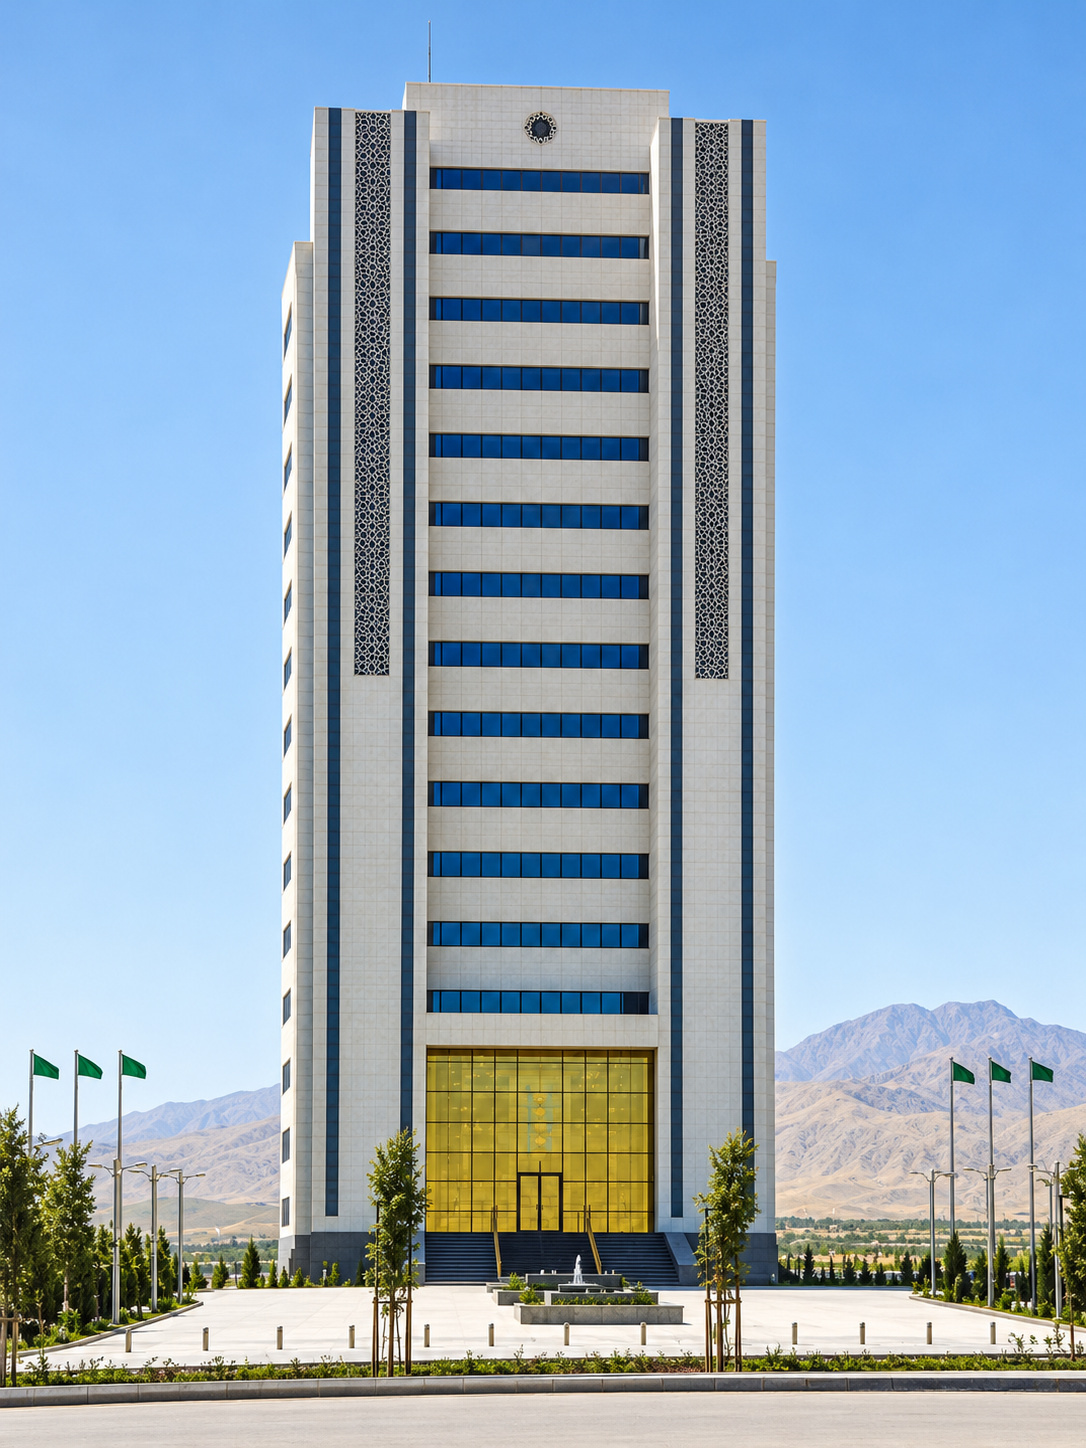
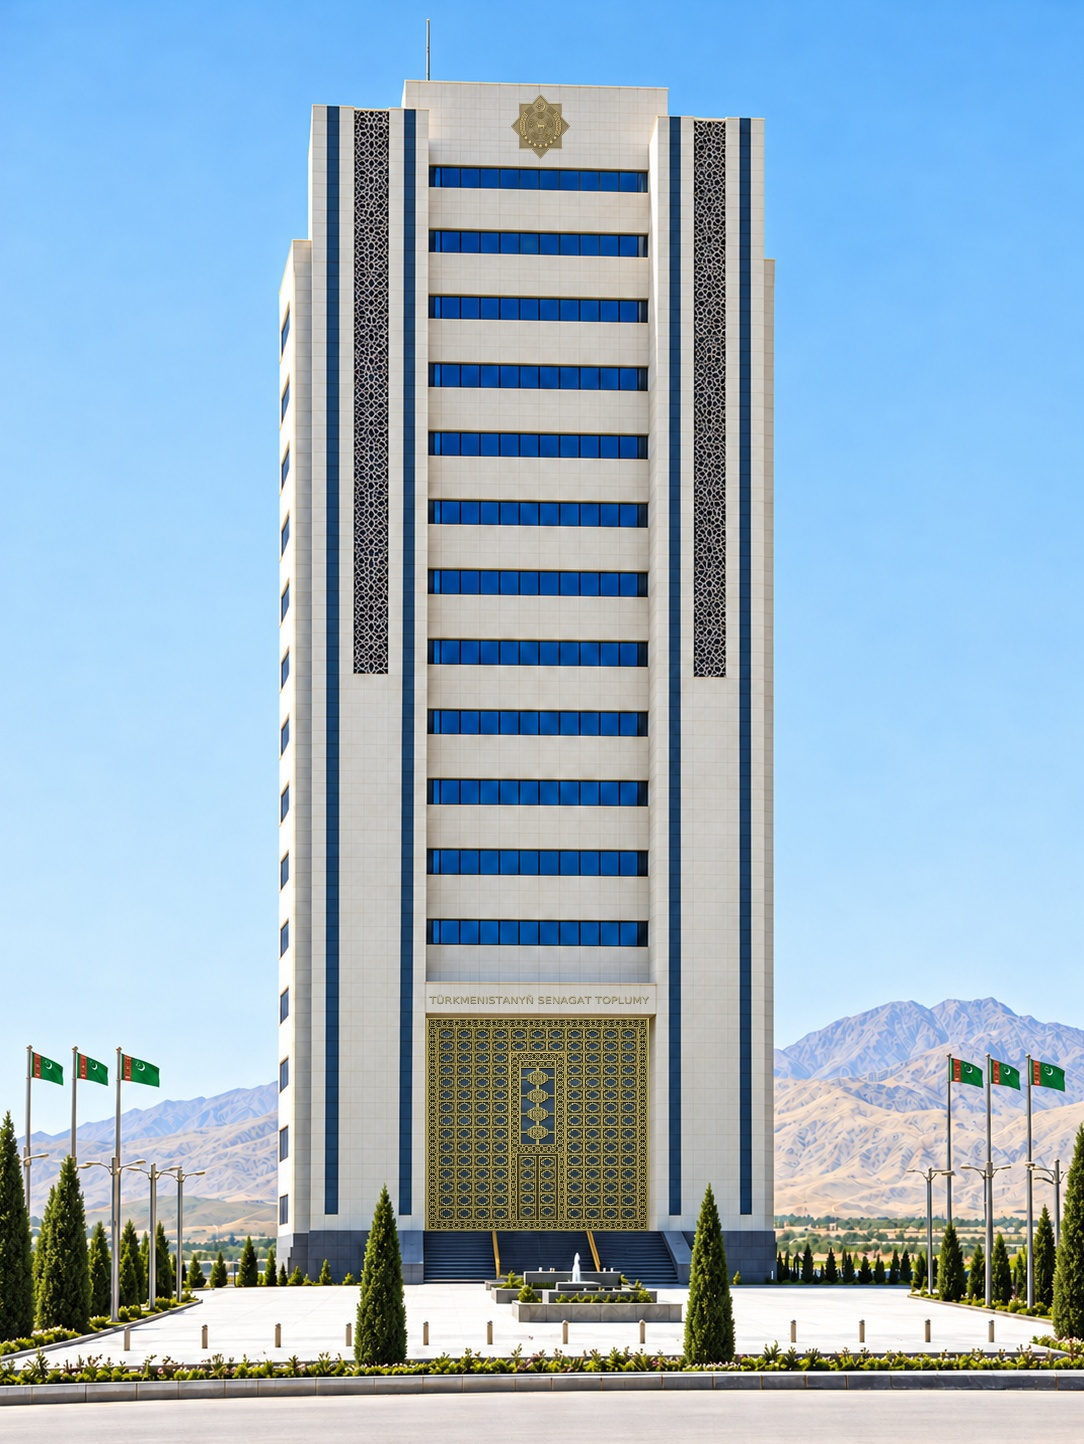
feat(landing): новый телефон и почта, без факса и «3 заказчиков», фото здания с обложки
По просьбе предприятия 31.10.2026:
- Телефон везде +993 12 76-03-69 (шапка, кнопка «позвонить», контакты).
- В контактах почта ceo@ и staff@nebithi.gov.tm — ссылкой на письмо.
- Факс снят: номер больше не их.
- Цифру «3 государственных заказчика» убрали; три оставшиеся — в ряд
  на компьютере, на телефоне две сверху и одна на всю ширину.
- Фото здания — с обложки нового каталога, снято страницей целиком:
  герб, надпись и решётка входа в PDF лежат отдельным слоем поверх
  фото, при выдёргивании одной картинки они теряются.

Changed region(s): [[0.0, 0.0312, 1.0, 0.9972]]

diff --git a/src/components/Landing.tsx b/src/components/Landing.tsx
@@ -1,5 +1,5 @@
 import { HugeiconsIcon } from "@hugeicons/react";
-import { ArrowRight02Icon, Call02Icon, Location01Icon, PrinterIcon } from "@hugeicons/core-free-icons";
+import { ArrowRight02Icon, Call02Icon, Location01Icon, Mail01Icon } from "@hugeicons/core-free-icons";
 import type { ReactNode } from "react";
 import { customerImages, customerKeys, future, groups, products, site } from "@/content/catalog";
 import { dicts } from "@/content";
@@ -79,13 +79,16 @@ function Hero({ d }: { d: Dict }) {
         </div>
       </Container>
       <Container>
-        <dl className="grid grid-cols-2 border-t border-border lg:grid-cols-4">
+        {/* Цифр три (строку «3 государственных заказчика» сняли по просьбе
+            предприятия 31.10.2026). На телефоне три колонки не влезают —
+            «35–220 kV» рвётся, поэтому две в ряд, третья на всю ширину. */}
+        <dl className="grid grid-cols-2 border-t border-border sm:grid-cols-3">
           {d.stats.map((s, i) => (
             <div
               key={s.label}
-              className={`py-6 ${i % 2 === 1 ? "border-l border-border pl-4 sm:pl-6" : "pr-4"} ${
-                i >= 2 ? "border-t border-border lg:border-t-0" : ""
-              } ${i === 2 ? "lg:border-l lg:pl-6" : ""} ${i > 0 ? "lg:pl-6" : ""}`}
+              className={`py-6 ${i === 0 ? "pr-4" : ""} ${i === 1 ? "border-l border-border pl-4 sm:pl-6" : ""} ${
+                i === 2 ? "col-span-2 border-t border-border sm:col-span-1 sm:border-l sm:border-t-0 sm:pl-6" : ""
+              }`}
             >
               <dt className="sr-only">{s.label}</dt>
               <dd className="text-3xl font-bold tabular-nums text-ink">{s.value}</dd>
@@ -316,8 +319,12 @@ function Contacts({ d }: { d: Dict }) {
               {site.phone.display}
             </a>
           </ContactRow>
-          <ContactRow icon={PrinterIcon} label={d.contacts.faxLabel}>
-            <span className="text-xl font-semibold tabular-nums text-text">{site.fax}</span>
+          <ContactRow icon={Mail01Icon} label={d.contacts.emailLabel}>
+            {site.emails.map((email) => (
+              <a key={email} href={`mailto:${email}`} className="block break-all text-lg font-semibold text-ink hover:underline">
+                {email}
+              </a>
+            ))}
           </ContactRow>
           <ContactRow icon={Location01Icon} label={d.contacts.addressLabel}>
             <address className="text-base not-italic leading-relaxed text-text">
@@ -348,7 +355,7 @@ function ContactRow({
       <span className="mt-0.5 flex h-10 w-10 shrink-0 items-center justify-center rounded-full bg-tint text-ink">
         <HugeiconsIcon icon={icon} size={20} />
       </span>
-      <div>
+      <div className="min-w-0">
         <p className="text-xs font-semibold text-faint">{label}</p>
         <div className="mt-1">{children}</div>
       </div>

diff --git a/src/content/ru.ts b/src/content/ru.ts
@@ -37,7 +37,6 @@ export const ru: Dict = {
     { value: "1960", label: "год начала производства" },
     { value: "5", label: "направлений продукции" },
     { value: "35–220 кВ", label: "классы опор ЛЭП" },
-    { value: "3", label: "государственных заказчика" },
   ],
   products: {
     eyebrow: "Продукция",
@@ -251,7 +250,7 @@ export const ru: Dict = {
     addressLabel: "Адрес",
     address: ["ул. 2008 (Н. Помма), 6", "Ашхабад 744000", "Туркменистан"],
     phoneLabel: "Телефон",
-    faxLabel: "Факс",
+    emailLabel: "Электронная почта",
   },
   footer: {
     illustrations: "Изображения продукции — иллюстрации на основе предоставленных материалов, а не рабочие чертежи. Точная конструкция определяется утверждённой документацией.",

diff --git a/src/content/catalog.ts b/src/content/catalog.ts
@@ -4,8 +4,9 @@ import type { FutureId, GroupId, Lang, ProductId } from "./types";
 // текстов, чтобы смена фото не требовала правки трёх языковых файлов.
 
 export const site = {
-  phone: { display: "+993 12 37-95-07", tel: "+99312379507" },
-  fax: "+993 12 37-95-15",
+  phone: { display: "+993 12 76-03-69", tel: "+99312760369" },
+  // Почта предприятия — с их бланка (31.10.2026); на всех языках одна.
+  emails: ["ceo@nebithi.gov.tm", "staff@nebithi.gov.tm"],
   // Портрет президента — как в печатном каталоге; на сайтах .gov.tm он
   // принят. Решение за предприятием: выключается здесь, без правки вёрстки.
   showPresident: true,

diff --git a/src/content/tk.ts b/src/content/tk.ts
@@ -37,7 +37,6 @@ export const tk: Dict = {
     { value: "1960", label: "ýyldan bäri önümçilik" },
     { value: "5", label: "önüm ugry" },
     { value: "35–220 kV", label: "elektrik liniýa diregleriniň synplary" },
-    { value: "3", label: "döwlet sargytçysy" },
   ],
   products: {
     eyebrow: "Önüm toplumy",
@@ -251,7 +250,7 @@ export const tk: Dict = {
     addressLabel: "Salgy",
     address: ["2008-nji (N. Pomma) köçesi, 6", "Aşgabat 744000", "Türkmenistan"],
     phoneLabel: "Telefon",
-    faxLabel: "Faks",
+    emailLabel: "Elektron poçta",
   },
   footer: {
     illustrations: "Önümleriň şekilleri berlen materiallar esasynda taýýarlanan görkezme suratlardyr, önümçilik çyzgylary däldir. Takyk gurluş tassyklanan resminamalar bilen kesgitlenýär.",

diff --git a/src/content/en.ts b/src/content/en.ts
@@ -37,7 +37,6 @@ export const en: Dict = {
     { value: "1960", label: "manufacturing since" },
     { value: "5", label: "product directions" },
     { value: "35–220 kV", label: "transmission structure classes" },
-    { value: "3", label: "state customers" },
   ],
   products: {
     eyebrow: "Portfolio",
@@ -251,7 +250,7 @@ export const en: Dict = {
     addressLabel: "Address",
     address: ["6, 2008 (N. Pomma) Street", "Ashgabat 744000", "Turkmenistan"],
     phoneLabel: "Telephone",
-    faxLabel: "Fax",
+    emailLabel: "Email",
   },
   footer: {
     illustrations: "Product visuals are illustrative configurations based on supplied materials, not manufacturing drawings. Exact construction is governed by approved documentation.",

diff --git a/src/content/types.ts b/src/content/types.ts
@@ -69,7 +69,7 @@ export type Dict = {
     addressLabel: string;
     address: string[];
     phoneLabel: string;
-    faxLabel: string;
+    emailLabel: string;
   };
   footer: { illustrations: string; rights: string };
 };
